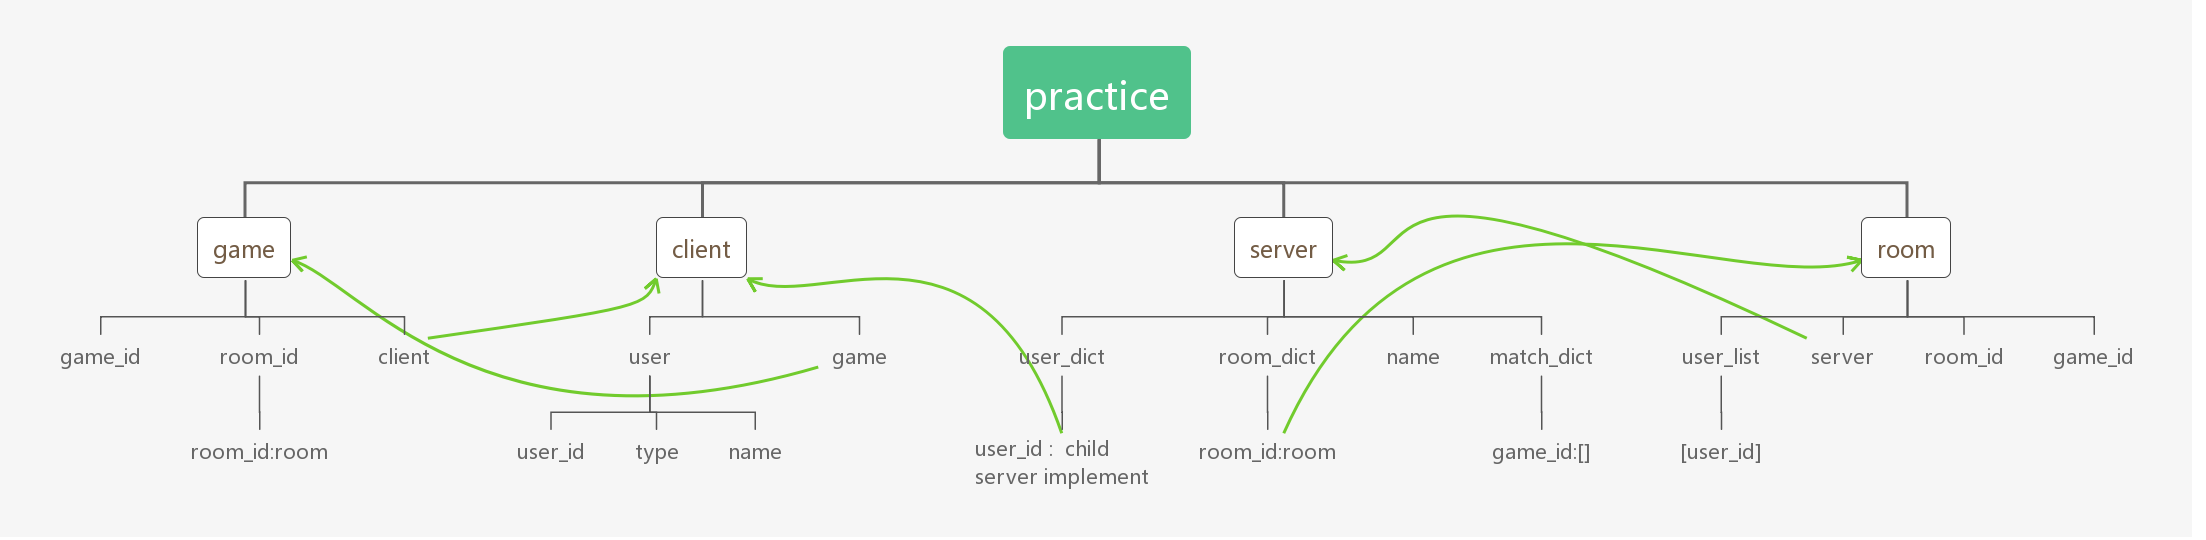
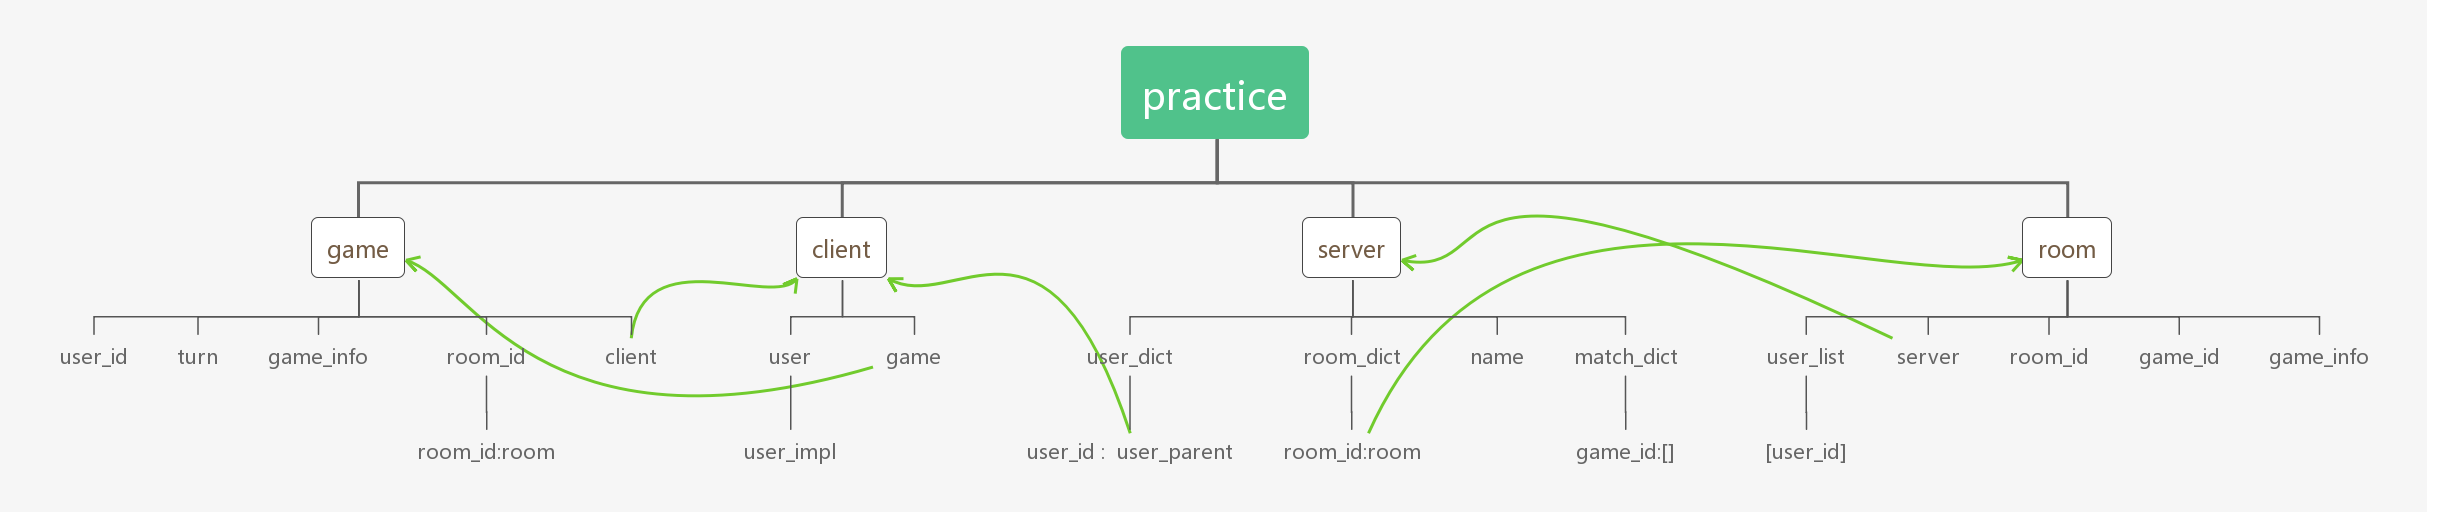
[modify] version 1.0 finish 1.add windows to input id,name,url 2.add windows to choose game 3.improve the readme and add a game_content readme

diff --git a/websocket_impl/websocket_windows.py b/websocket_impl/websocket_windows.py
@@ -1,0 +1,72 @@
+from tkinter import *
+
+from common.constants.game_content import game_dict
+
+
+class generate_windows:
+    """
+    two windows: login window and match window,client use this two
+    """
+
+    def __init__(self):
+        pass
+
+    def login_windows(self) -> list:
+        """
+        this windows for input login info,
+        """
+        # init frame
+        frame = Tk()
+        # set title
+        frame.title("login")
+        # set label
+        Label(frame, text="if not fill name and age,server will generate one").grid(row=0, column=1)
+        Label(frame, text="id:").grid(row=1, column=0)
+        Label(frame, text="name:").grid(row=2, column=0)
+        Label(frame, text="url:").grid(row=3, column=0)
+        # set StringVar
+        stringVar_id = StringVar()
+        stringVar_name = StringVar()
+        stringVar_url = StringVar()
+        stringVar_url.set("gameserver.goodyhao.top")
+        # set text
+        Entry(frame, width=40, textvariable=stringVar_id).grid(row=1, column=1)
+        Entry(frame, width=40, textvariable=stringVar_name).grid(row=2, column=1)
+        Entry(frame, width=40, textvariable=stringVar_url).grid(row=3, column=1)
+        # set button
+        Button(frame, text="ok", width=10, command=lambda: frame.destroy()).grid(row=4, column=0)
+        Button(frame, text="cancel", width=10, command=lambda: exit()).grid(row=4, column=1)
+        frame.mainloop()
+        # get and return info
+        user_id = stringVar_id.get()
+        name = stringVar_name.get()
+        url = stringVar_url.get()
+        return [user_id, name, url]
+
+    def match_window(self):
+        """
+        the window for choose game_id
+        """
+        # init frame
+        frame = Tk()
+        # result
+        label_intro = Label(frame, text="which one do you want?")
+        label_intro.grid(row=0)
+        stringvar_id = StringVar()
+        label_result = Label(frame, textvariable=stringvar_id)
+        label_result.grid(row=1)
+        # set title
+        frame.title("match")
+        # set button
+        num = 2
+        for game_id in game_dict.keys():
+            # set button
+            button = Button(frame, text=game_id, width=10, command=lambda: stringvar_id.set(game_id))
+            # set position
+            button.grid(row=num)
+            num += 1
+
+        # set end button
+        Button(frame, text="ok", width=10, command=lambda: frame.destroy()).grid(row=num)
+        frame.mainloop()
+        return stringvar_id.get()

diff --git a/websocket_impl/websocket_clinet_impl.py b/websocket_impl/websocket_clinet_impl.py
@@ -6,11 +6,16 @@ import websocket
 from common.parents.client_parent import client_parent
 from common.utils import generate_json
 from websocket_impl.websocket_user_impl import websocket_user_impl
+from websocket_impl.websocket_windows import generate_windows
 
 
 class websocket_client_impl(client_parent):
-    def __init__(self, id, name, ws_url):
-        thread.start_new_thread(self.send_data, ())
+    def __init__(self):
+        # get windows
+        self.windows = generate_windows()
+        # get base info
+        id, name, ws_url = self.windows.login_windows()
+        thread.start_new_thread(self.choose_game, ())
         # create user
         user = websocket_user_impl(id, name)
         super().__int__(user)
@@ -56,12 +61,9 @@ class websocket_client_impl(client_parent):
         """
         self.ws.send(message)
 
-    def send_data(self):
-        while 1:
-            name = input("input please:")
-            if name == "1":
-                self.ws.send(generate_json.generate_show_data(self.user.get_user_id()))
-            elif name == "2":
-                self.ws.send(generate_json.generate_logout(self.user.get_user_id(), self.user.get_name()))
-            elif name == "3":
-                self.ws.send(generate_json.generate_match(self.user.get_user_id(), "game1"))
+    def choose_game(self):
+        """
+        the function to choose which game to play
+        """
+        game_id = self.windows.match_window()
+        self.match(game_id)

diff --git a/common/parents/client_parent.py b/common/parents/client_parent.py
@@ -103,3 +103,9 @@ class client_parent():
         # run the game
         self.game = self.game(self.user.get_user_id(), room, turn, content[GAME_BODY_INFO], self)
         self.game.run()
+
+    def match(self, game_id):
+        """
+        send match message to server
+        """
+        self.send_to_server(generate_json.generate_match(self.user.get_user_id(), game_id))

diff --git a/main_client.py b/main_client.py
@@ -1,4 +1,5 @@
 from websocket_impl.websocket_clinet_impl import websocket_client_impl
 
 if __name__ == "__main__":
-    client = websocket_client_impl("goodyId", "goodyName", "127.0.0.1:8801")
+    # "goodyId", "goodyName", "127.0.0.1:8801"
+    client = websocket_client_impl()

diff --git a/common/constants/game_content.py b/common/constants/game_content.py
@@ -22,4 +22,4 @@ def get_four_stone():
     return (2, four_stone, four_stone_room, four_stone_info)
 
 
-game_dict = {"game1": get_four_stone}
+game_dict = {"four_stone": get_four_stone}

diff --git a/README.md b/README.md
@@ -72,6 +72,12 @@
 
 ![model_basic_argv](./picture/model_basic_argv.png)
 
+* game
+    * the main body for running game
+    
+* game_info
+    * storage game's information and charge if game command is legal
+    * room will have one game_info to charge every step of client.
 
 #### In the future
 
@@ -80,3 +86,26 @@
 * 2.Try many ways for communicating.
 
 * 3.Write some interesting game or work.
+
+* 4.room can synchronism game_info with client
+
+
+#### pack with pipenv and pyinstaller
+
+* Pure environment will generate a little executable file.If run pyinstaller in anaconda environment,the executable file will be so large.
+
+* install pipenv
+
+> pip install pipenv
+
+* start create environment
+
+> pipenv install 
+
+> pipenv install pygame==1.9.6 PyInstaller==3.5 websocket-client==0.56.0 websocket-server==0.4
+
+> pipenv run pyinstaller -F main_server.py
+
+> pipenv run pyinstaller -F main_client.py
+
+* find the executable file in `.\dist` path

diff --git a/game/README.md b/game/README.md
@@ -1,0 +1,18 @@
+# game content
+
+### four stone
+
+![four_stone](../picture/four_stone.jpg)
+
+* this is a basic game that every player has four footman to move and attack.
+
+* Players: 2
+
+* Move:
+    * 1.Player can move just one footman to an empty block which is next to this footman.
+    * 2.Player can just move in player's turn.
+
+* Attack:
+    * 1.When two same footman stand side by side,it can attack one block which in the same line and next to one of this two footman.
+    * 2.The line should just has one enemy footman.In this way this enemy will be killed.
+    * 3.If the line has two enemy footmen,footmen will defend the attack.
